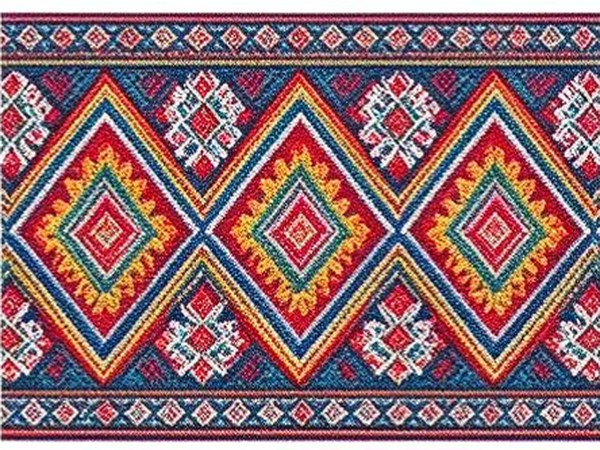
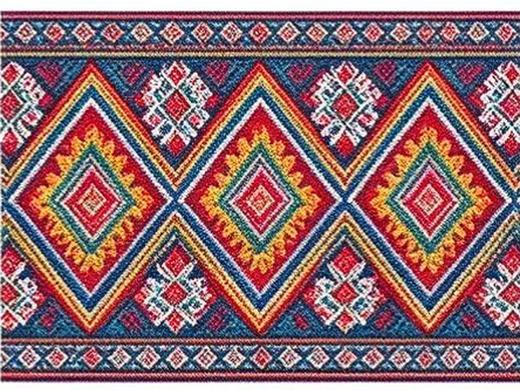
图片压缩七成并启用懒加载，留言页不再显示删除入口

diff --git a/第九组-锦韵壮乡/03-纹样展示-白高领/index3.html b/第九组-锦韵壮乡/03-纹样展示-白高领/index3.html
@@ -37,14 +37,14 @@
     <span class="chip" data-cat="吉祥">吉祥</span>
   </div>
   <div class="gal">
-    <figure data-cat="几何"><img src="../assets/p1.jpg" alt="菱形纹"><figcaption><b>菱形纹</b><i>壮锦最基本的骨架</i></figcaption></figure>
-    <figure data-cat="几何,吉祥"><img src="../assets/p2.jpg" alt="万字纹"><figcaption><b>万字纹</b><i>绵延不断之意</i></figcaption></figure>
-    <figure data-cat="自然"><img src="../assets/p3.jpg" alt="水波纹"><figcaption><b>水波纹</b><i>稻作民族的河与田</i></figcaption></figure>
-    <figure data-cat="自然"><img src="../assets/p4.jpg" alt="太阳纹"><figcaption><b>太阳纹</b><i>光与热的崇拜</i></figcaption></figure>
-    <figure data-cat="自然,吉祥"><img src="../assets/p5.jpg" alt="蝴蝶纹"><figcaption><b>蝴蝶纹</b><i>生命与繁衍</i></figcaption></figure>
-    <figure data-cat="自然"><img src="../assets/p6.jpg" alt="鸟纹"><figcaption><b>鸟纹</b><i>迁徙与丰收的信使</i></figcaption></figure>
-    <figure data-cat="自然,吉祥"><img src="../assets/p7.jpg" alt="花卉纹"><figcaption><b>花卉纹</b><i>四季与富足</i></figcaption></figure>
-    <figure data-cat="几何,吉祥"><img src="../assets/p8.jpg" alt="回纹"><figcaption><b>回纹</b><i>往复循环，生生不息</i></figcaption></figure>
+    <figure data-cat="几何"><img loading="lazy" src="../assets/p1.jpg" alt="菱形纹"><figcaption><b>菱形纹</b><i>壮锦最基本的骨架</i></figcaption></figure>
+    <figure data-cat="几何,吉祥"><img loading="lazy" src="../assets/p2.jpg" alt="万字纹"><figcaption><b>万字纹</b><i>绵延不断之意</i></figcaption></figure>
+    <figure data-cat="自然"><img loading="lazy" src="../assets/p3.jpg" alt="水波纹"><figcaption><b>水波纹</b><i>稻作民族的河与田</i></figcaption></figure>
+    <figure data-cat="自然"><img loading="lazy" src="../assets/p4.jpg" alt="太阳纹"><figcaption><b>太阳纹</b><i>光与热的崇拜</i></figcaption></figure>
+    <figure data-cat="自然,吉祥"><img loading="lazy" src="../assets/p5.jpg" alt="蝴蝶纹"><figcaption><b>蝴蝶纹</b><i>生命与繁衍</i></figcaption></figure>
+    <figure data-cat="自然"><img loading="lazy" src="../assets/p6.jpg" alt="鸟纹"><figcaption><b>鸟纹</b><i>迁徙与丰收的信使</i></figcaption></figure>
+    <figure data-cat="自然,吉祥"><img loading="lazy" src="../assets/p7.jpg" alt="花卉纹"><figcaption><b>花卉纹</b><i>四季与富足</i></figcaption></figure>
+    <figure data-cat="几何,吉祥"><img loading="lazy" src="../assets/p8.jpg" alt="回纹"><figcaption><b>回纹</b><i>往复循环，生生不息</i></figcaption></figure>
   </div>
 </section>
 <div class="stats">

diff --git a/第九组-锦韵壮乡/01-首页-任宏宇/index1.html b/第九组-锦韵壮乡/01-首页-任宏宇/index1.html
@@ -30,13 +30,13 @@
   <p>广西壮锦非遗文化数字展馆</p>
 </section>
 <section class="entries">
-  <a class="card" href="../02-文化介绍-黄俊杰/index2.html"><img src="../assets/p1.jpg" alt="文化介绍">
+  <a class="card" href="../02-文化介绍-黄俊杰/index2.html"><img loading="lazy" src="../assets/p1.jpg" alt="文化介绍">
     <div class="bd"><h3>文化介绍</h3><p>从宋代贡品到国家级非遗，看一条织锦的时间线。</p></div></a>
-  <a class="card" href="../03-纹样展示-白高领/index3.html"><img src="../assets/p2.jpg" alt="纹样展示">
+  <a class="card" href="../03-纹样展示-白高领/index3.html"><img loading="lazy" src="../assets/p2.jpg" alt="纹样展示">
     <div class="bd"><h3>纹样展示</h3><p>八款经典纹样，每一款都有名字和寓意。</p></div></a>
-  <a class="card" href="../04-互动留言-申涛/index4.html"><img src="../assets/p3.jpg" alt="互动留言">
+  <a class="card" href="../04-互动留言-申涛/index4.html"><img loading="lazy" src="../assets/p3.jpg" alt="互动留言">
     <div class="bd"><h3>互动留言</h3><p>留下你与壮锦的一段记忆，我们会一一看过。</p></div></a>
-  <a class="card" href="../05-关于联系-周家豪/index5.html"><img src="../assets/p4.jpg" alt="关于联系">
+  <a class="card" href="../05-关于联系-周家豪/index5.html"><img loading="lazy" src="../assets/p4.jpg" alt="关于联系">
     <div class="bd"><h3>关于联系</h3><p>五个人的项目组，以及这个网站的来处。</p></div></a>
 </section>
 <div class="stats">

diff --git a/第九组-锦韵壮乡/04-互动留言-申涛/page.js b/第九组-锦韵壮乡/04-互动留言-申涛/page.js
@@ -233,8 +233,10 @@ window.CLOUD_CONFIG = window.CLOUD_CONFIG || {
     el.appendChild(ava);
     el.appendChild(main);
 
-    // 有 id 的（云端或自己提交的）才显示删除按钮
-    if (item.id) {
+    // 页面上不放删除入口：留言墙对所有人开放，清理留言统一在 Supabase 后台做。
+    // 需要恢复删除按钮时，把 ALLOW_DELETE 改成 true 即可。
+    var ALLOW_DELETE = false;
+    if (ALLOW_DELETE && item.id) {
       var del = document.createElement('button');
       del.type = 'button';
       del.className = 'del';
